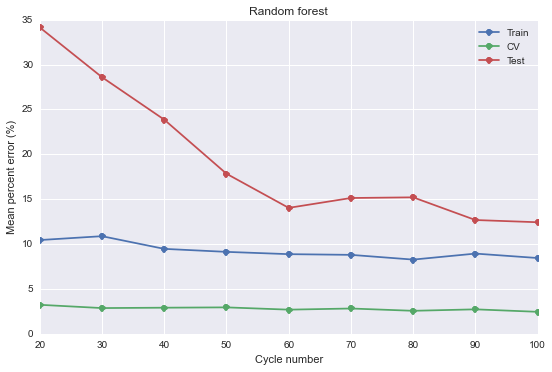
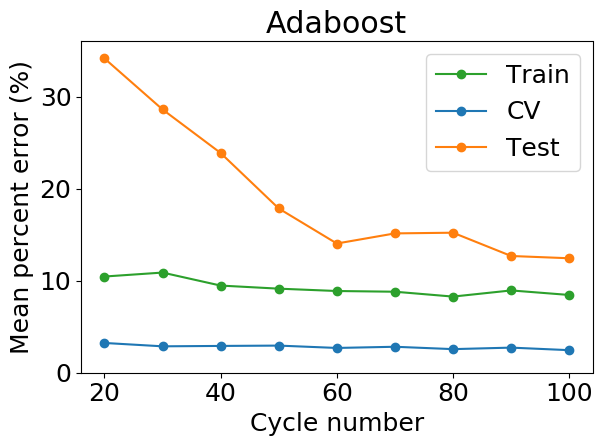
Update AB and RF

diff --git a/SVR_peter.py b/SVR_peter.py
@@ -1,0 +1,262 @@
+import numpy as np
+import matplotlib.pyplot as plt
+import math
+from sklearn.svm import SVR
+from sklearn import metrics
+from sklearn.model_selection import cross_val_score
+import pandas as pd
+import seaborn as sns
+import pickle
+
+def main():
+ #   N_cycles = np.array([20,30,40,50,60,70,80,90,100])
+    N_cycles = np.array([ 40])
+
+    
+    min_rmse = np.zeros(N_cycles.shape)
+    min_mpe = np.zeros(N_cycles.shape)
+    training_mpe = np.zeros(N_cycles.shape)
+    min_percent_error = np.zeros(N_cycles.shape)
+#    use_log_cycle_life = False    
+    use_log_features = True
+    use_all_features = False
+    which_features = [2,3,4,21,22,24,25,39,40,48,49,63,65]#list(map(int, np.linspace(2,12,11) ))
+    
+    best_C = np.zeros(N_cycles.shape)
+    best_eps = np.zeros(N_cycles.shape)    
+    trained_models = []
+    
+    for i in np.arange(len(N_cycles)):
+        print('Starting N_cycles = ' + str(int(N_cycles[i])))
+        
+        if use_log_features:
+            file_name = "training/Cycles_2TO" + str(int(N_cycles[i])) + "_log.csv"
+        else:
+            file_name = "training/Cycles_2TO" + str(int(N_cycles[i])) + ".csv"
+
+        features, cycle_lives, feature_names = load_dataset(file_name, False, use_all_features, which_features)
+        
+        # make some arrays that depend on number of features
+        if i == 0:
+            norm_coeffs = np.zeros([features.shape[1],len(N_cycles)])
+
+#        from sklearn import svm
+#        X = [[0, 0], [2, 2]]
+#        y = [0.5, 2.5] 
+#        clf = svm.SVR()
+#        clf.fit(X, y) 
+#        clf.predict([[1, 1]])
+#        
+
+#        C =  np.array([1000]) #np.linspace(1,1000,50)
+#        C =  np.linspace(1,100000,50)
+        C = np.logspace(0,6,8)
+        eps = np.logspace(-2.5,-0.5,6)
+
+        rmse = np.zeros([len(C),len(eps)])        
+        train_rmse = np.zeros([len(C),len(eps)])
+        mpe = np.zeros([len(C),len(eps)])        
+
+
+        
+        for j in np.arange(len(C)):
+            for k in np.arange(len(eps)):
+                # SVR
+        #        my_SVR = sk.svm.SVR(kernel='rbf', degree=3, gamma='auto_deprecated', coef0=0.0, tol=0.001, C=1.0, epsilon=0.1, shrinking=True, cache_size=200, verbose=False, max_iter=1000)
+                my_SVR = SVR(kernel='rbf',C=C[j], epsilon=eps[k])
+                print('C = ' + str(C[j]))
+                print('eps = ' + str(eps[k]))
+                
+#                if use_log_cycle_life:
+#                    my_SVR.fit(features,np.log10(cycle_lives))
+#                    predicted_cycle_lives = 10**my_SVR.predict(features)
+#                    residuals = predicted_cycle_lives - cycle_lives
+#                    train_rmse[j,k] = np.sqrt(((residuals) ** 2).mean())
+##                    R_squared = my_SVR.score(features,np.log10(cycle_lives))
+#                    mse = cross_val_score(my_SVR, features, np.log10(cycle_lives), cv=5, scoring='mean_squared_error')
+#                    rmse[j,k] = np.sqrt(np.mean(mse))
+#                    next_mpe = cross_val_score(my_SVR, features, np.log10(cycle_lives), cv=5, scoring=mean_percent_error)
+#                    mpe[j,k] = np.mean(next_mpe)
+#                else:
+                my_SVR.fit(features,cycle_lives)
+                predicted_cycle_lives = my_SVR.predict(features)
+                residuals = predicted_cycle_lives - cycle_lives
+                train_rmse[j,k] = np.sqrt(((residuals) ** 2).mean())
+#                    R_squared = my_SVR.score(features,cycle_lives)
+                mse = -cross_val_score(my_SVR, features, cycle_lives, cv=5, scoring='neg_mean_squared_error')
+                rmse[j,k] = np.sqrt(abs(np.mean(mse)))
+                next_mpe = cross_val_score(my_SVR, features, np.log10(cycle_lives), cv=5, scoring=mean_percent_error)
+                mpe[j,k] = np.mean(next_mpe)
+                
+                plt.plot(cycle_lives,predicted_cycle_lives,'o')
+                plt.plot([0,2400],[0,2400],'r-')
+                plt.ylabel('Predicted cycle lives')
+                plt.xlabel('Actual cycle lives')
+                #plt.axis('equal')
+                plt.axis([0, 1400, 0, 1400])
+                plt.show()
+                
+        
+                print('Training error:')
+                print(train_rmse[j,k])
+                
+                print('RMSE with cross validation:')
+                print(rmse[j,k])
+
+                print('MPE with cross validation:')
+                print(mpe[j,k])
+    
+                
+        #        print('N iterations to convergence: ' + str(int(enet.n_iter_)))
+#                print('R_square = ' + str(R_squared))
+                print('Finished N_cycles = ' + str(int(N_cycles[i])))
+                print('=======================================')
+
+        
+        print('Min RMSE with cross validation:')
+        print(np.min(rmse))        
+        
+        print('Min MPE with cross validation:')
+        print(np.min(mpe))          
+        
+        min_rmse[i] = np.min(rmse)
+        min_mpe[i] = np.min(mpe)
+#        best_index = np.where(mpe==np.min(mpe))
+#        best_C[i] = C[best_index[0]]
+#        best_eps[i] = eps[best_index[1]]
+        index_best = np.argmin(rmse)
+        best_C_index = index_best // eps.shape[0]
+        print('Best C index ' + str(int(best_C_index)))
+        best_C[i] = C[best_C_index]
+        
+        best_eps_index = np.mod(index_best, eps.shape[0])
+        print('Best eps index ' + str(int(best_eps_index)))
+        best_eps[i] = eps[best_eps_index]
+
+        print('Best eps:')
+        print(best_eps[i])
+        print('Best C:')
+        print(best_C[i])
+        
+        print('Training MSE:')
+        ax = sns.heatmap(train_rmse)
+        plt.show()
+        print('Cross-validation MSE:')
+        ax = sns.heatmap(rmse)
+        plt.show()
+        print('Cross-validation MPE:')
+        ax = sns.heatmap(mpe)
+        plt.show()
+        
+        # Train new model using best hyperparameters:
+        best_SVR = SVR(kernel='rbf',C=best_C[i], epsilon=best_eps[i])
+        best_SVR.fit(features,cycle_lives)
+        trained_models.append(best_SVR)
+        
+        predicted_cycle_lives = best_SVR.predict(features)
+        residuals = predicted_cycle_lives - cycle_lives
+        training_mpe[i] = (np.abs(residuals)/cycle_lives).mean()*100
+        
+        plt.plot(cycle_lives,predicted_cycle_lives,'o')
+        plt.plot([0,2400],[0,2400],'r-')
+        plt.ylabel('Predicted cycle lives')
+        plt.xlabel('Actual cycle lives')
+        #plt.axis('equal')
+        plt.axis([0, 1400, 0, 1400])
+        plt.show()
+        
+ # make nice plots
+    plt.plot(N_cycles, min_rmse, '-o')
+    plt.ylabel('RMSE error')
+    plt.xlabel('N cycles')
+    plt.show()
+    
+    plt.plot(N_cycles, min_mpe, '-o')
+    plt.ylabel('MPE error')
+    plt.xlabel('N cycles')
+    plt.show()
+
+#    plt.subplot(2, 1, 1)
+#    plt.plot(N_cycles, optimal_l1_ratio, '-o')
+#    plt.ylabel('Optimal L1 ratio')
+#    plt.xlabel('N cycles')
+#    
+#    plt.subplot(2, 1, 2)
+#    plt.plot(N_cycles, optimal_alpha, '-o')
+#    plt.ylabel('Optimal alpha')
+#    plt.xlabel('N cycles')
+#    plt.show()
+    
+    # export coeff matrix to csv
+#    df = pd.DataFrame(norm_coeffs, columns=N_cycles, index=feature_names)
+#    df.to_csv("norm_coeffs.csv")
+    
+    
+    pickle.dump(trained_models, open('SVR_trained_models.pkl', 'wb'))
+    pickle.dump(min_mpe, open('SVR_crossvalid_percenterror.pkl', 'wb'))  
+    pickle.dump(training_mpe, open('SVR_training_percenterror.pkl', 'wb'))    
+
+    
+
+    
+    
+def load_dataset(csv_path, add_intercept=True, use_all_features=True, which_features=[2]):
+    """Load dataset from a CSV file.
+
+    Args:
+         csv_path: Path to CSV file containing dataset.
+         add_intercept: Add an intercept entry to x-values.
+
+    Returns:
+        xs: Numpy array of x-values (features).
+        ys: Numpy array of y-values (labels).
+        headers: list of headers
+    """
+
+    # def add_intercept_fn(x):
+    #     global add_intercept
+    #     return add_intercept(x)
+
+    # # Validate label_col argument
+    # allowed_label_cols = ('y', 't')
+    # if label_col not in allowed_label_cols:
+    #     raise ValueError('Invalid label_col: {} (expected {})'
+    #                      .format(label_col, allowed_label_cols))
+
+    # Load headers
+    with open(csv_path, 'r') as csv_fh:
+        headers = csv_fh.readline().strip().split(',')
+
+    # Load features and labels
+    # x_cols = [i for i in range(len(headers)) if headers[i] == 'cycle_lives']
+    # l_cols = [i for i in range(len(headers)) if headers[i] == label_col]
+    if use_all_features:
+        features = np.loadtxt(csv_path, delimiter=',', skiprows=1, usecols=range(2, len(headers)))
+    else:
+        features = np.loadtxt(csv_path, delimiter=',', skiprows=1, usecols=which_features)
+    cycle_lives = np.loadtxt(csv_path, delimiter=',', skiprows=1, usecols=[1])
+    feature_names = headers[2:len(headers)]
+
+    m = features.shape[0]
+    # print(m)
+    # print(features.shape)
+    # print( np.ones([m, 1]))
+    if add_intercept:
+        features = np.concatenate((np.ones([m, 1]), features),axis=1)
+        feature_names = ['intercept'] + feature_names
+
+    return features, cycle_lives, feature_names
+
+
+def mean_percent_error(model, X, y):
+    predicted_y = model.predict(X)
+    residuals = predicted_y - y
+    return (np.abs(residuals)/y).mean()*100
+
+    
+
+
+
+
+if __name__ == "__main__":
+    main()

diff --git a/test.py b/test.py
@@ -16,7 +16,7 @@ from sklearn.ensemble import RandomForestRegressor
 doPlot = False
 use_all_features = False
 
-MODEL = 'RF'
+MODEL = 'AB'
 
 if MODEL == 'enet':
     full_name = 'Elastic net'
@@ -26,6 +26,9 @@ elif MODEL == 'SVR':
     use_log_cycle_life = False
 elif MODEL == 'RF':
     full_name = 'Random forest'
+    use_log_cycle_life = False
+elif MODEL == 'AB':
+    full_name = 'Adaboost'
     use_log_cycle_life = False
 
 def main():
@@ -38,7 +41,7 @@ def main():
     mpe = np.zeros(N_cycles.shape)
     which_features = [2,3,4,21,22,24,25,39,40,48,49,63,65]
     
-    if MODEL != 'RF': # versioning issue with random forest
+    if MODEL != 'AB': # versioning issue with random forest
         # load all models
         models = pickle.load(open(MODEL+"_trained_models.pkl", "rb" ))
         
@@ -96,7 +99,7 @@ def main():
             
     else:
         # random forest only
-        data = pickle.load(open("RF_data.pkl", "rb" ))
+        data = pickle.load(open(MODEL+"_data.pkl", "rb" ))
         predicted_cycle_lives = data[0]
         train_predicted_cycle_lives = data[1]
         train_mpe = data[2]
